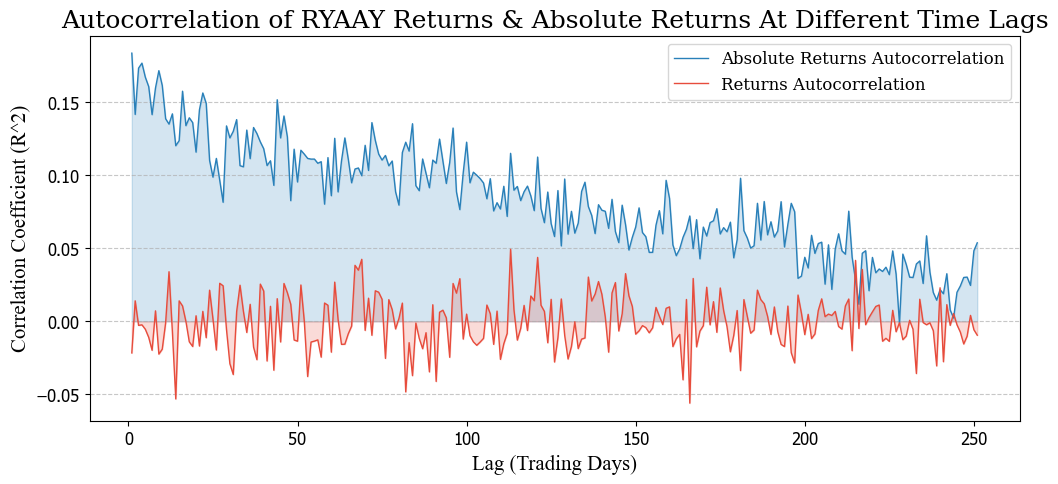
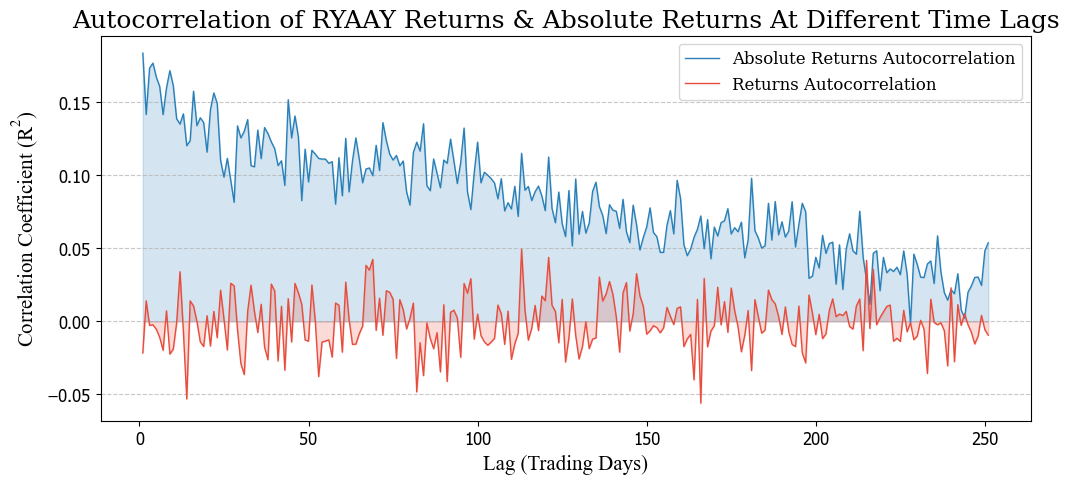
R^2 plot

diff --git a/RYAAY_distribution.py b/RYAAY_distribution.py
@@ -288,12 +288,12 @@ plt.fill_between(range(1,num_lags), absolute_correlations, alpha=0.2, color='#29
 plt.plot(range(1,num_lags), correlations, color='#e74c3c', label='Returns Autocorrelation', linewidth=1)
 plt.fill_between(range(1,num_lags), correlations, alpha=0.2, color='#e74c3c')
 plt.xlabel('Lag (Trading Days)', fontsize=15, fontname='Times New Roman')
-plt.ylabel('Correlation Coefficient (R^2)', fontsize=15, fontname='Times New Roman')
+plt.ylabel('Correlation Coefficient ($\mathregular{R^2}$)', fontsize=15, fontname='Times New Roman')
 plt.title('Autocorrelation of RYAAY Returns & Absolute Returns At Different Time Lags', fontsize=18, fontfamily='serif')
 plt.legend(fontsize=12, prop={'family': 'serif', 'size': 12})
 plt.grid(axis='y', linestyle='--', alpha=0.7)
 plt.tick_params(axis='both', which='major', labelsize=12)
-#plt.savefig('Plots/absolute_returns_correlation_plot.png', bbox_inches='tight')
+plt.savefig('Plots/absolute_returns_correlation_plot.png', bbox_inches='tight')
 #plt.show()
 plt.close()
 
